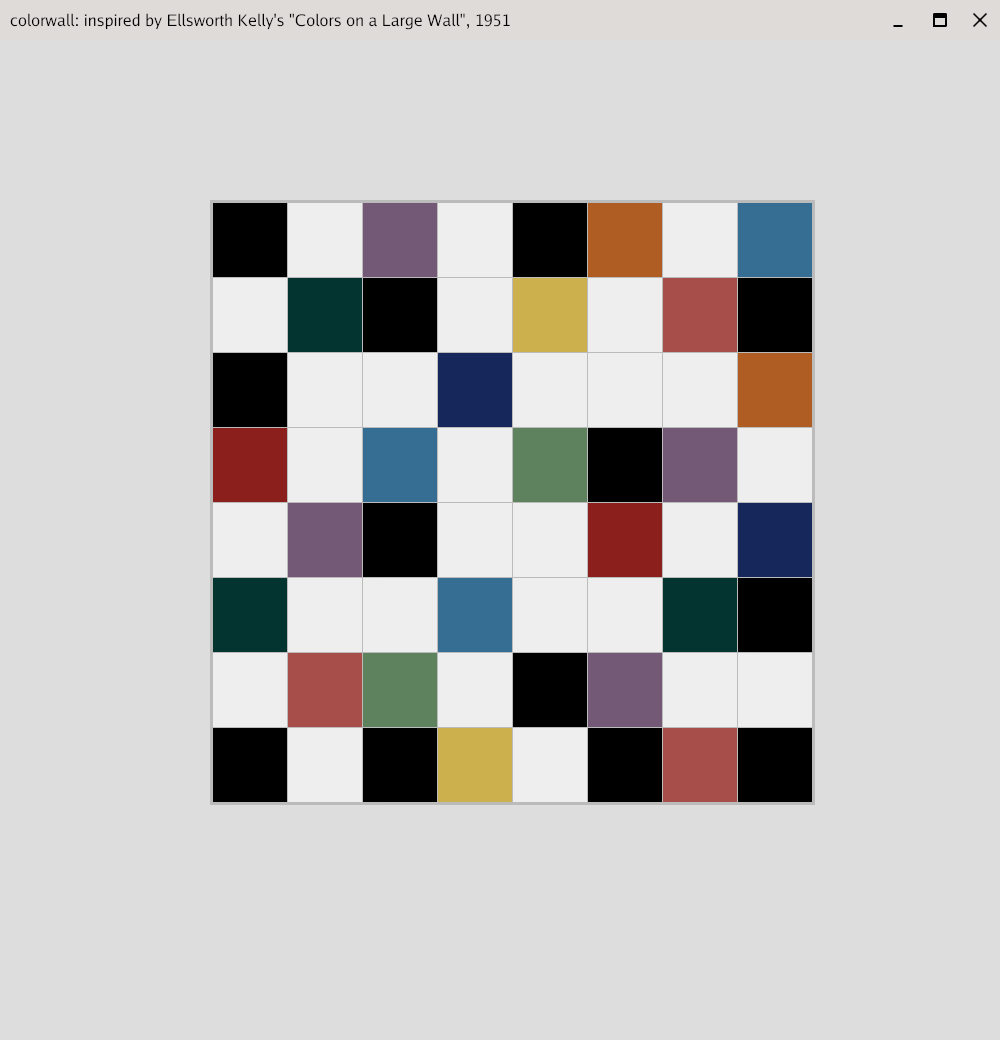
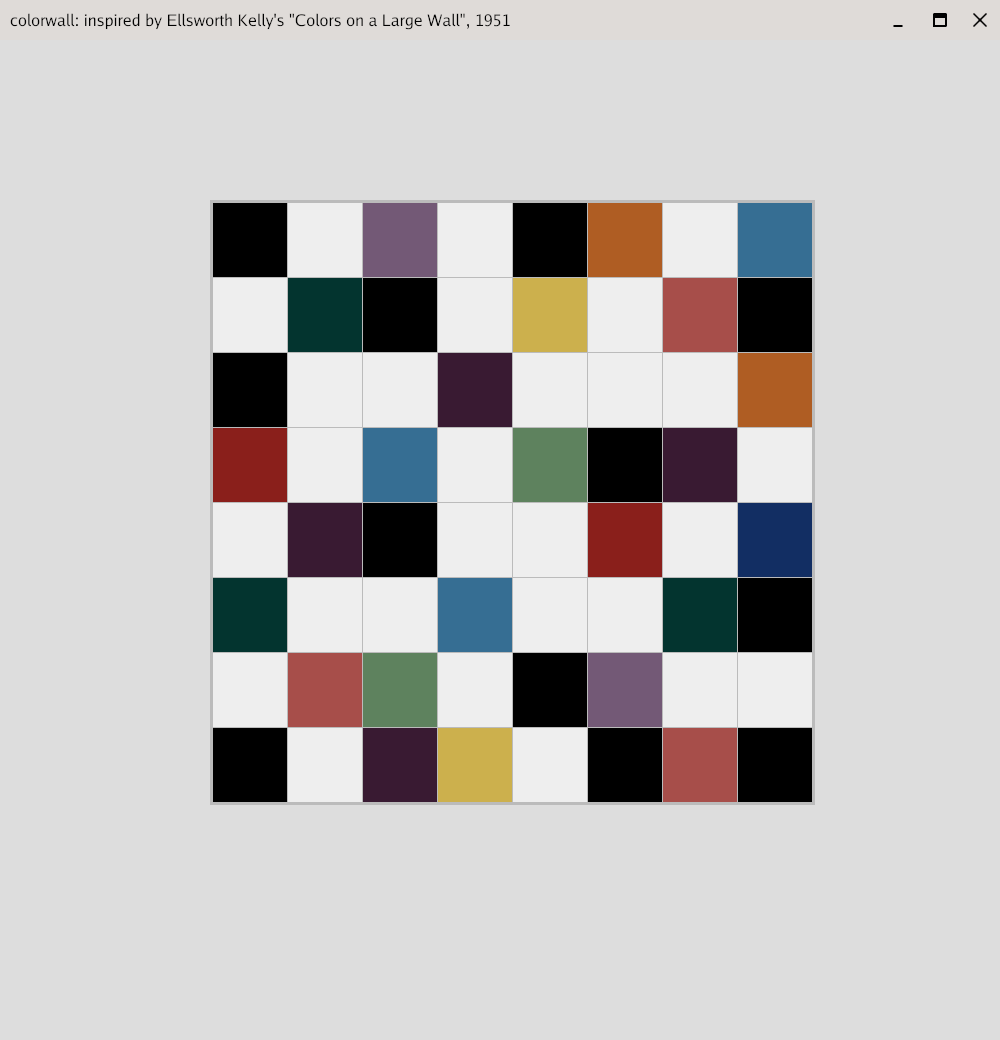
colorwall: update palette

diff --git a/colorwall/main.go b/colorwall/main.go
@@ -11,7 +11,7 @@ import (
 
 var palette = []string{
 	"#000000", "#8a1f1b", "#a74e4a", "#03342f", "#5e825e",
-	"#366e93", "#15275b", "#735976", "#ccb04d", "#af5d23", "#eeeeee",
+	"#366e93", "#735976", "#ccb04d", "#af5d23", "#122e63", "#391a32", "#eeeeee",
 }
 
 func displaypalette(canvas *giocanvas.Canvas, x, y, xincr, yincr float32) {
@@ -29,12 +29,12 @@ func colorwall(width, height float32, showpalette bool) {
 	layout := [][]string{
 		{"#000000", "#eeeeee", "#735976", "#eeeeee", "#000000", "#af5d23", "#eeeeee", "#366e93"},
 		{"#eeeeee", "#03342f", "#000000", "#eeeeee", "#ccb04d", "#eeeeee", "#a74e4a", "#000000"},
-		{"#000000", "#eeeeee", "#eeeeee", "#15275b", "#eeeeee", "#eeeeee", "#eeeeee", "#af5d23"},
-		{"#8a1f1b", "#eeeeee", "#366e93", "#eeeeee", "#5e825e", "#000000", "#735976", "#eeeeee"},
-		{"#eeeeee", "#735976", "#000000", "#eeeeee", "#eeeeee", "#8a1f1b", "#eeeeee", "#15275b"},
+		{"#000000", "#eeeeee", "#eeeeee", "#391a32", "#eeeeee", "#eeeeee", "#eeeeee", "#af5d23"},
+		{"#8a1f1b", "#eeeeee", "#366e93", "#eeeeee", "#5e825e", "#000000", "#391a32", "#eeeeee"},
+		{"#eeeeee", "#391a32", "#000000", "#eeeeee", "#eeeeee", "#8a1f1b", "#eeeeee", "#122e63"},
 		{"#03342f", "#eeeeee", "#eeeeee", "#366e93", "#eeeeee", "#eeeeee", "#03342f", "#000000"},
 		{"#eeeeee", "#a74e4a", "#5e825e", "#eeeeee", "#000000", "#735976", "#eeeeee", "#eeeeee"},
-		{"#000000", "#eeeeee", "#000000", "#ccb04d", "#eeeeee", "#000000", "#a74e4a", "#000000"},
+		{"#000000", "#eeeeee", "#391a32", "#ccb04d", "#eeeeee", "#000000", "#a74e4a", "#000000"},
 	}
 	var x, y, left, right, top, bottom, xincr, yincr float32
 	left, right, bottom, top = 25, 85, 20, 80
@@ -60,7 +60,7 @@ func colorwall(width, height float32, showpalette bool) {
 				y -= yincr
 			}
 			if showpalette {
-				displaypalette(canvas, 15, 10, xincr, yincr)
+				displaypalette(canvas, 10, 10, xincr, yincr)
 			}
 			e.Frame(canvas.Context.Ops)
 		case app.DestroyEvent:
